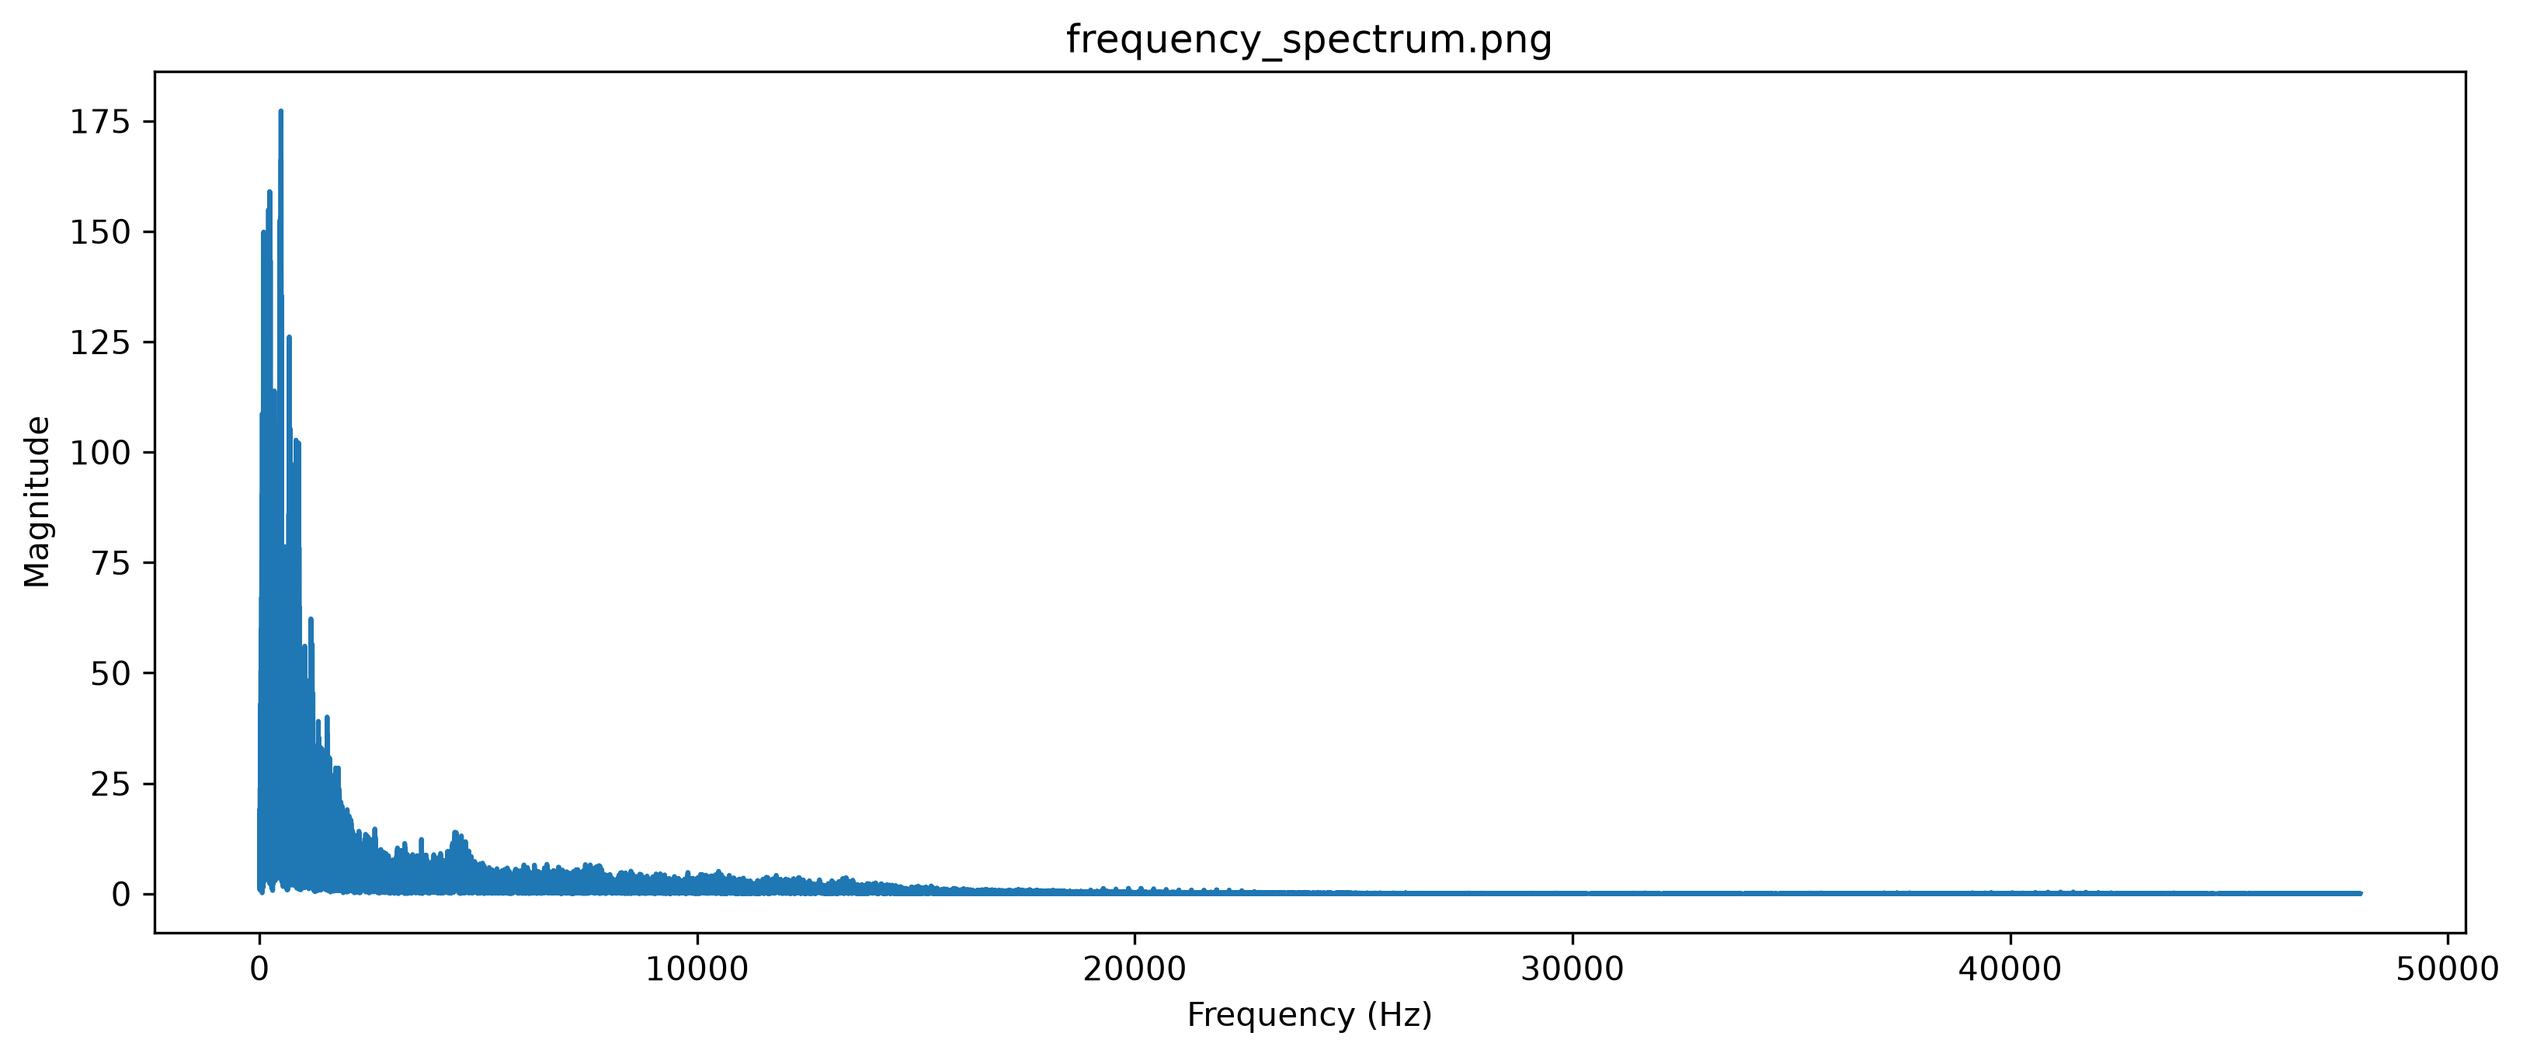
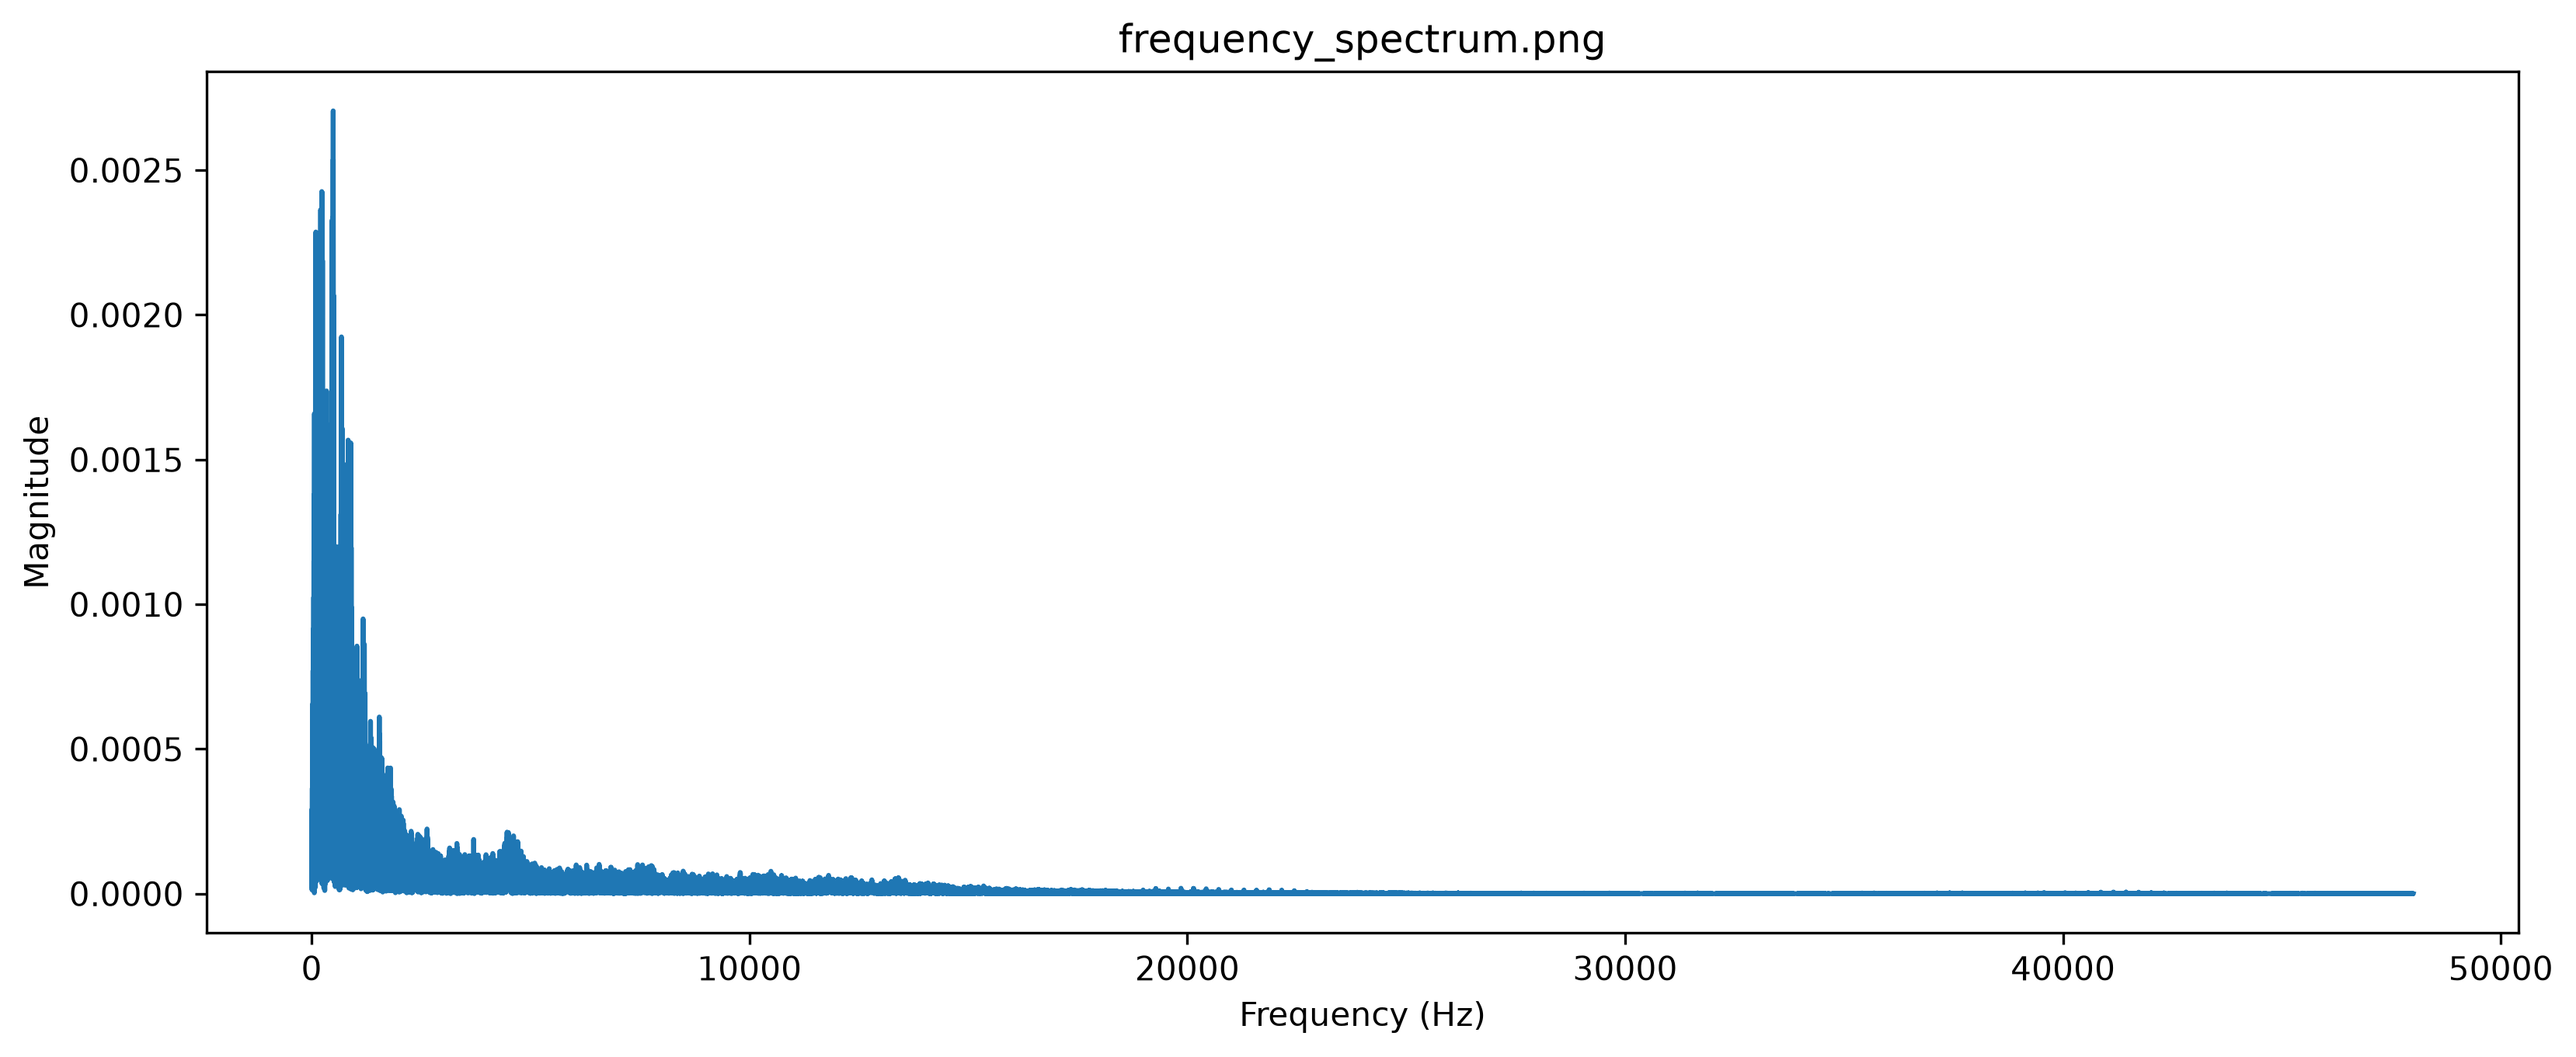
JM - Change the sampling frequency to 32 bits per second for the normalization

diff --git a/fft.py b/fft.py
@@ -7,7 +7,7 @@ import wave as wv
 def read_wav_file(file):
     sample_rate, data = wavfile.read(file)
     time = np.arange(len(data)) / sample_rate
-    data = data/32768
+    data = data/2**31
 
     return sample_rate, data, time
 
